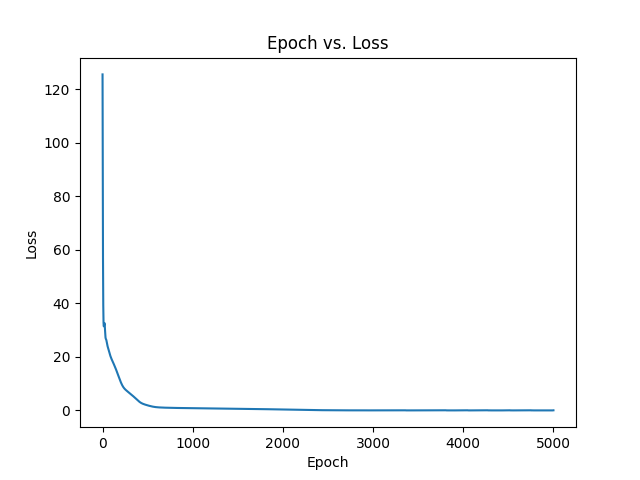
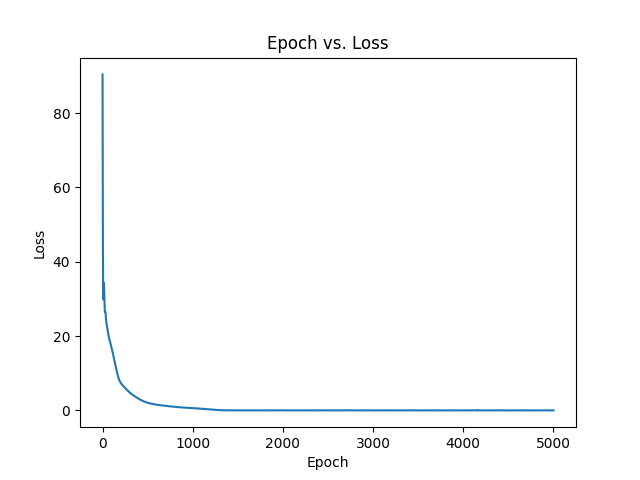
Update benchmarking results and enhance README with performance comparison details

diff --git a/README.md b/README.md
@@ -1,0 +1,21 @@
+# Physics-Informed Neural Network
+
+This project is a test project to learn the working of a Physics-Informed Neural Network (PINN) and compare its performance to traditional computation using mathematical functions.
+
+## Training Loop
+
+Below is the training epoch vs loss graph:
+
+![Epoch vs Loss Graph](output_figure.png)
+
+## Performance Comparison
+
+The output statistics are detailed in [output.txt](output.txt). At its best, the PINN outperforms the CPU by a factor of 140.9372.
+
+Imagine you are running a Digital Twin or a real-time simulation that needs to calculate the physics state 30 times per second (30 FPS) to look smooth to a human eye.
+
+| Feature | Mathematical Solver (CPU) | PINN Inference (GPU) |
+|---|---|---|
+| Time per Frame | 31.46 ms | 0.22 ms |
+| Max Frames Per Second | ~31.7864 FPS | ~4,545 FPS |
+| System Load | 100% CPU (Maxed out just to keep up) | <1% GPU |
